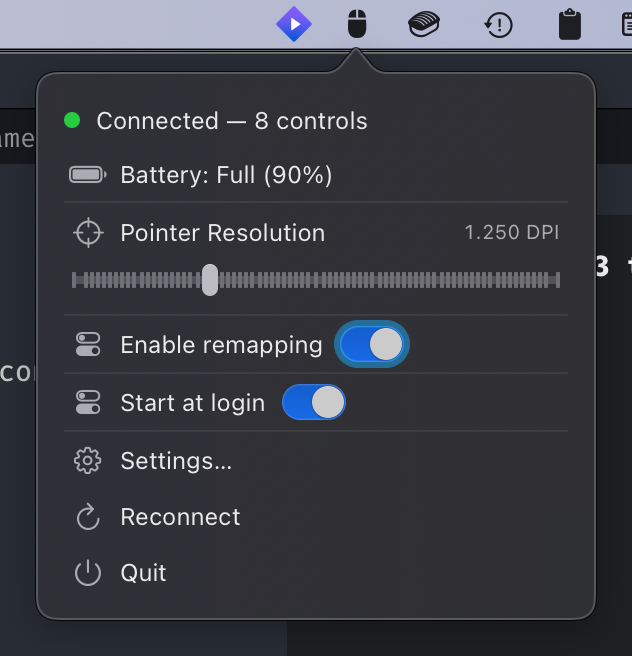
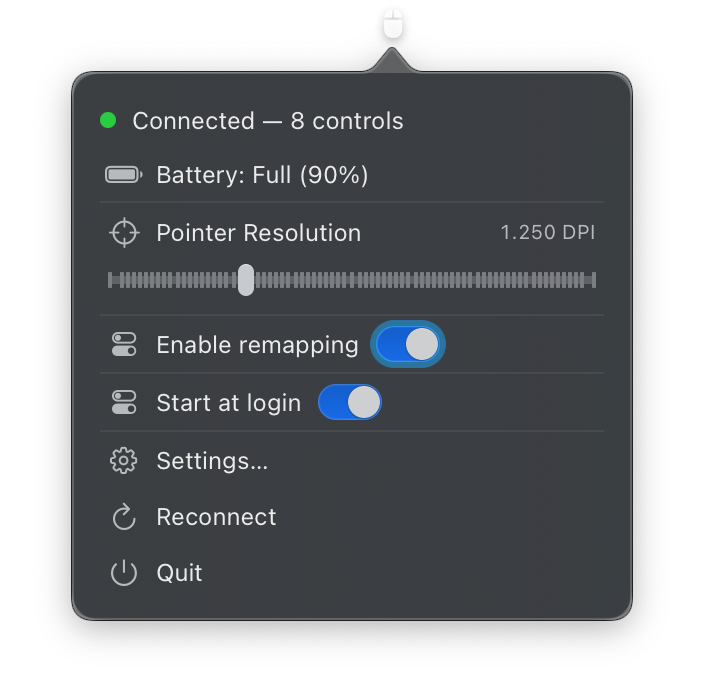
feat(site): lightbox de zoom nas screenshots; menu-bar.png trocada pela versao do autor

diff --git a/docs/index.html b/docs/index.html
@@ -12,16 +12,18 @@
 <meta property="og:title" content="RatTamer — MX Master control for macOS, without Options+">
 <meta property="og:description" content="Per-button remapping, SmartShift, DPI cycling and trackpad-style smooth scrolling over HID++. Native menu bar app, MIT licensed.">
 <meta property="og:image" content="https://gilsonolegario.github.io/RaTamer/assets/icone.png">
+<meta name="theme-color" content="#191c20">
 <style>
   :root {
-    --text: #1d1d1f;
-    --muted: #6e6e73;
-    --border: #d9d9de;
-    --link: #0066cc;
+    --bg: #191c20;
+    --text: #e3e6ea;
+    --muted: #99a1ab;
+    --border: #2b3037;
+    --link: #79b0f5;
   }
   * { margin: 0; padding: 0; box-sizing: border-box; }
   body {
-    background: #fff; color: var(--text);
+    background: var(--bg); color: var(--text);
     font-family: -apple-system, BlinkMacSystemFont, "SF Pro Text", "Helvetica Neue", sans-serif;
     font-size: 16px; line-height: 1.55;
     -webkit-font-smoothing: antialiased;
@@ -34,6 +36,7 @@
   .nav-inner { display: flex; align-items: baseline; justify-content: space-between; padding: 16px 0; }
   .brand { font-weight: 600; color: var(--text); }
   .brand:hover { text-decoration: none; }
+  code { background: rgba(255,255,255,.07); padding: 2px 6px; border-radius: 5px; }
   nav .links { font-size: 14px; display: flex; gap: 20px; }
 
   header { padding: 72px 0 36px; }
@@ -59,6 +62,12 @@
   .duo { display: grid; grid-template-columns: 1fr 1fr; gap: 26px; align-items: start; }
   @media (max-width: 740px) { .duo { grid-template-columns: 1fr; } }
   img { width: 100%; height: auto; }
+  img.zoom { cursor: zoom-in; }
+  #lb { position: fixed; inset: 0; background: rgba(8,9,11,.88); display: flex;
+        align-items: center; justify-content: center; z-index: 99; cursor: zoom-out; }
+  #lb[hidden] { display: none; }
+  #lb img { max-width: min(1400px, 94vw); max-height: 92vh; width: auto; }
+  section { scroll-margin-top: 16px; }
 
   table { width: 100%; border-collapse: collapse; font-size: 14.5px; }
   th, td { text-align: left; padding: 9px 10px; border-bottom: 1px solid var(--border); }
@@ -94,7 +103,7 @@
        <a href="https://github.com/gilsonolegario/RaTamer">source code</a></p>
     <p class="platform">macOS 14 or later &middot; universal binary (Apple Silicon and Intel) &middot; MIT license</p>
     <figure class="hero-shot">
-      <img src="assets/menu-bar.png" alt="RatTamer's menu bar item with its popover open">
+      <img src="assets/menu-bar.png" alt="RatTamer's menu bar item with its popover open" class="zoom">
       <figcaption>Status, battery, pointer resolution and the global remapping toggle.</figcaption>
     </figure>
   </div>
@@ -119,11 +128,11 @@
     <h2>Screenshots</h2>
     <div class="duo">
       <figure>
-        <img src="assets/settings-buttons.png" alt="Settings window, Buttons tab">
+        <img src="assets/settings-buttons.png" alt="Settings window, Buttons tab" class="zoom" loading="lazy">
         <figcaption>Buttons tab: per-button actions and SmartShift.</figcaption>
       </figure>
       <figure>
-        <img src="assets/settings-advanced.png" alt="Settings window, Advanced tab">
+        <img src="assets/settings-advanced.png" alt="Settings window, Advanced tab" class="zoom" loading="lazy">
         <figcaption>Advanced tab: the smoothing parameters.</figcaption>
       </figure>
     </div>
@@ -170,4 +179,15 @@
 </footer>
 
 </body>
+
+<div id="lb" hidden><img alt="screenshot enlarged"></div>
+<script>
+  const lb = document.getElementById('lb');
+  const lbImg = lb.querySelector('img');
+  document.querySelectorAll('img.zoom').forEach(im => im.addEventListener('click', () => {
+    lbImg.src = im.src; lb.hidden = false;
+  }));
+  lb.addEventListener('click', () => { lb.hidden = true; });
+  addEventListener('keydown', e => { if (e.key === 'Escape') lb.hidden = true; });
+</script>
 </html>
